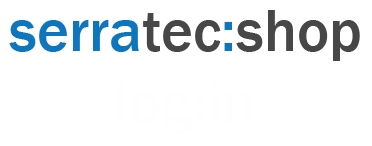
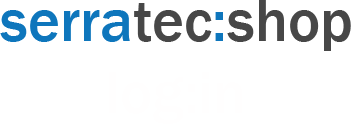
Tela de login ajustada

Changed region(s): [[0.0, 0.0, 1.0, 0.432]]

diff --git a/Trabalho_final/login.html b/Trabalho_final/login.html
@@ -1,5 +1,6 @@
 <!DOCTYPE html>
 <html lang="pt-br">
+
 <head>
     <meta charset="UTF-8">
     <meta name="viewport" content="width=device-width, initial-scale=1.0">
@@ -7,24 +8,56 @@
     <link rel="stylesheet" href="./styles/login.css">
     <script src="./scripts/login.js"></script>
 </head>
+
 <body>
-<div id="voltar">
-    <a href="index.html"><img src="/assets/botaoVoltar.png" alt=""></a>
-</div>
+    <div id="voltar">
+        <a href="index.html"><img src="/assets/botaoVoltar.png" alt=""></a>
+    </div>
+
+
     <div id="formulario">
-        <img src="./assets/SerraTecShopLogin.png" alt="Serratec Shop Log Tela de login">
-        <form action="">
-            <table>
-                <tr>
-                    <td><label for="username">Usuário</label></td><td><input type="text" id="username" name="username" placeholder="digite seu usuário" onkeyup="habilitarBotao()"></td>
-                </tr>
-                <tr>
-                    <td><label for="senha">Senha</label></td><td><input type="password" id="senha" name="senha" placeholder="digite sua senha" onkeyup="habilitarBotao()"></td>
-                </tr>
-             </table>
+        <img class="logoLogin" src="./assets/SerraTecShopLogin.png" alt="Serratec Shop Log Tela de login">
+
+        <form action="" class="formAction">
+
+            <section class="sec-name">
+                <label for="username">Usuário</label>
+                <input type="text" id="username" name="username" placeholder="Digite seu usuário"
+                    onkeyup="habilitarBotao()">
+            </section>
+            <section class="sec-senha">
+                <label for="senha">Senha</label>
+                <input type="password" id="senha" name="senha" placeholder="Digite sua senha" onkeyup="habilitarBotao()">
+            </section>
+
+
+
             <button id="entrar" disabled="true"></button>
         </form>
     </div>
-    
+
+    <!-- <div id="formulario">
+        <img src="./assets/SerraTecShopLogin.png" alt="Serratec Shop Log Tela de login">
+
+        <form action="">
+
+            <table>
+                <tr>
+                    <td><label for="username">Usuário</label></td>
+                    <td><input type="text" id="username" name="username" placeholder="digite seu usuário"
+                            onkeyup="habilitarBotao()"></td>
+                </tr>
+                <tr>
+                    <td><label for="senha">Senha</label></td>
+                    <td><input type="password" id="senha" name="senha" placeholder="digite sua senha"
+                            onkeyup="habilitarBotao()"></td>
+                </tr>
+            </table>
+
+            <button id="entrar" disabled="true"></button>
+        </form>
+    </div> -->
+
 </body>
+
 </html>

diff --git a/Trabalho_final/styles/login.css b/Trabalho_final/styles/login.css
@@ -1,92 +1,91 @@
-*
-{
+* {
     margin: 0;
     padding: 0;
     box-sizing: border-box;
 }
 
-:root
-{
-  --azul1: #25aae1;
-  --azul2: #0b5489;
-  --azul3: #0c619d;
-  --branco: #ffffff;
-  --hCard: 340px;
+:root {
+    --azul1: #25aae1;
+    --azul2: #0b5489;
+    --azul3: #0c619d;
+    --branco: #ffffff;
+    --hCard: 340px;
 }
 
-body
-{
+body {
     font-family: Arial, "Helvetica Neue", Helvetica, sans-serif;
     display: flex;
     justify-content: center;
     align-items: center;
     height: 100vh;
-    /* background-image: url("/assets/Blue\ Minimalist\ Desktop\ Wallpaper.png"); */
     background-image: url("/assets/fundologin.jpg");
 }
 
-input
-{
-    width: 200px;
-    height: 50px;
-    margin: 10px;
-    border: 0;
-    border-radius: 5px;
-    background-color: var(--azul1);
-}
-
-
-label
-{
-    text-align: center;
-    font-weight: 700;
-    color: #000000;
-    
-    
-}
-
-#voltar
-{
-    position: absolute;
-
-    top: 10vh;
-    left: 10vw;
-}
-
-#formulario
-{
-    width: 45vw;
-    height: 45vh;
+#formulario {
+    width: 550px;
+    height: 400px;
     display: flex;
-    align-items: center;
-    justify-content: center;
     flex-direction: column;
+    align-items: center;
+    justify-content: space-around;
     background-color: rgba(204, 204, 204, 0.5);
     border: solid 2px;
     border-color: var(--azul2);
     border-radius: 30px;
+}
+
+.logoLogin {
+    height: auto;
+    width: 320px;
+}
+
+.formAction {
+    display: flex;
+    flex-direction: column;
+    height: 50%;
+    width: 350px;
+}
+
+.sec-name,
+.sec-senha {
+    display: flex;
+    justify-content: space-between;
+    width: 100%;
+    margin: 10px 0px;
+}
+
+input {
+    font-size: large;
+    width: 200px;
+    border-radius: 5px;
+    background-color: var(--azul1);
+    padding-left: 10px;
+    /* margin-left: 10px; */
+}
+
+label {
+    font-weight: 700;
+    color: #000000;
     font-size: 30px;
-    
 }
 
-#entrar
-{
- display: block;
- margin: auto;
- background-image: url("/assets/botaoEntrar.png");
- background-size: cover;
- text-align: center;
- border-radius: 10px;
- border: 0;
- width: 175px;
- height: 50px;
- 
- 
+#voltar {
+    position: absolute;
+    top: 10vh;
+    left: 5vw;
 }
 
-#entrar:disabled
-{
+#entrar {
+    display: block;
+    margin: auto;
+    background-image: url("/assets/botaoEntrar.png");
+    background-size: cover;
+    background-position: center;
+    border-radius: 10px;
+    width: 175px;
+    height: 55px;
+}
+
+#entrar:disabled {
     opacity: 0.4;
 }
-
-
